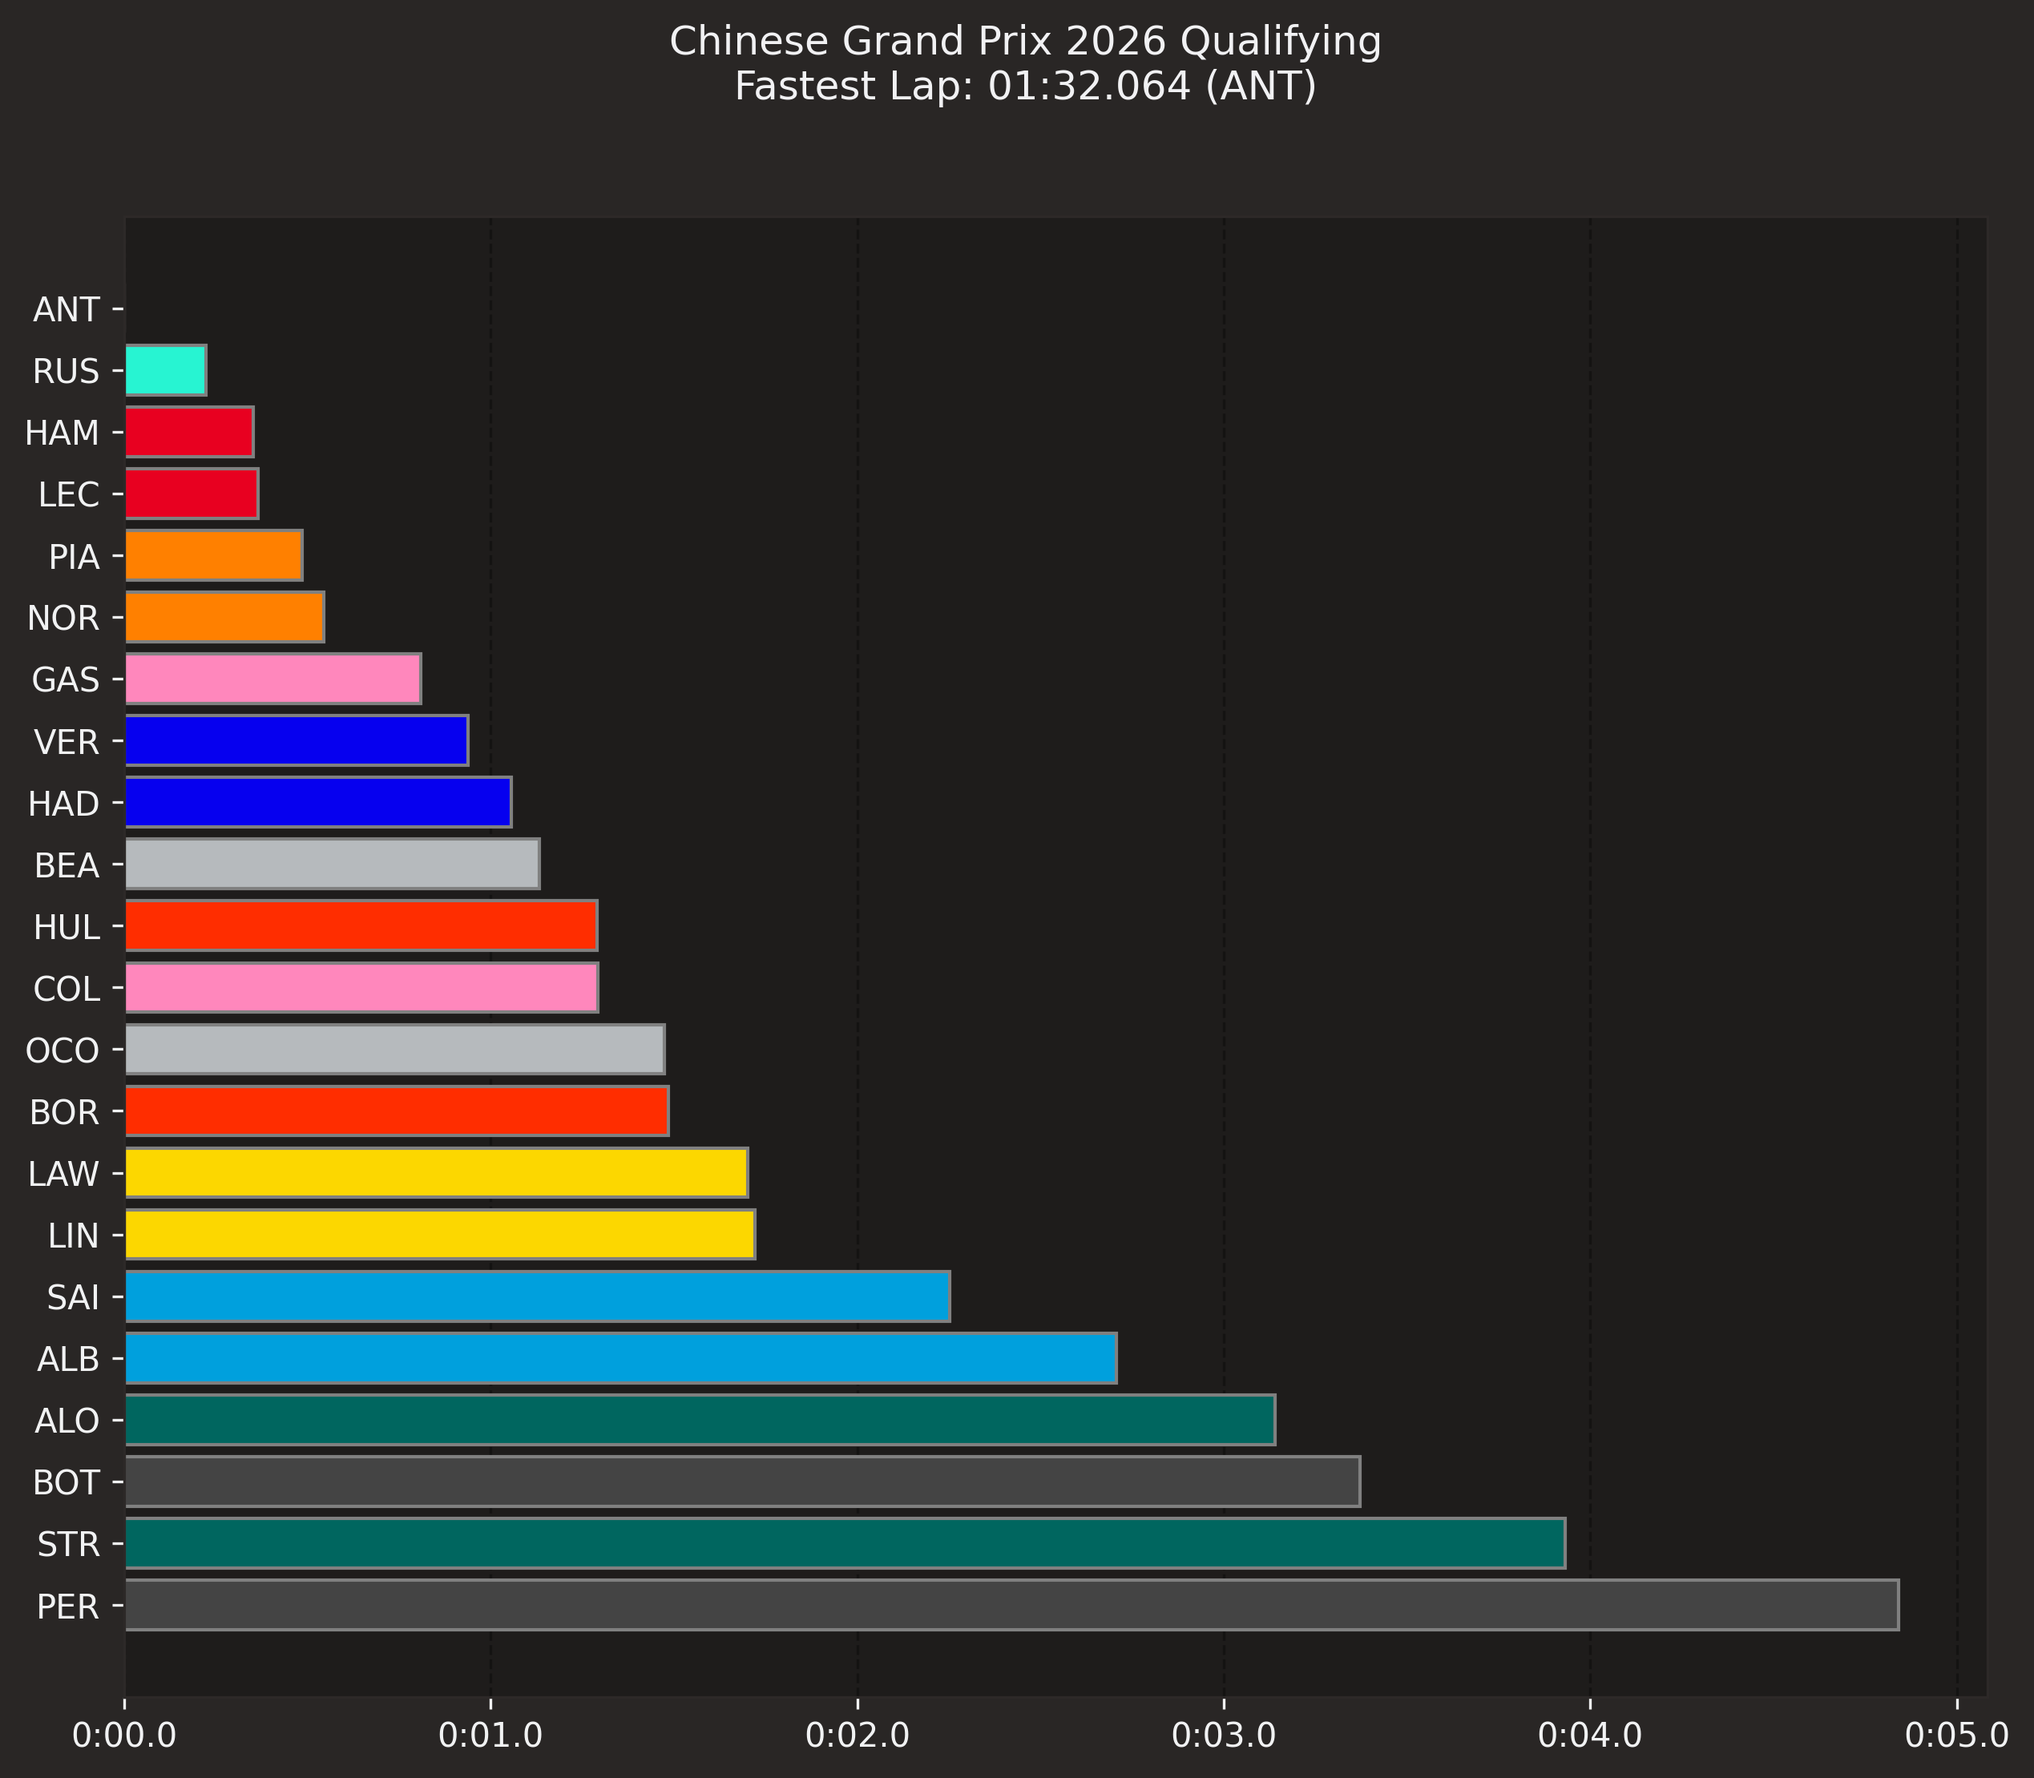
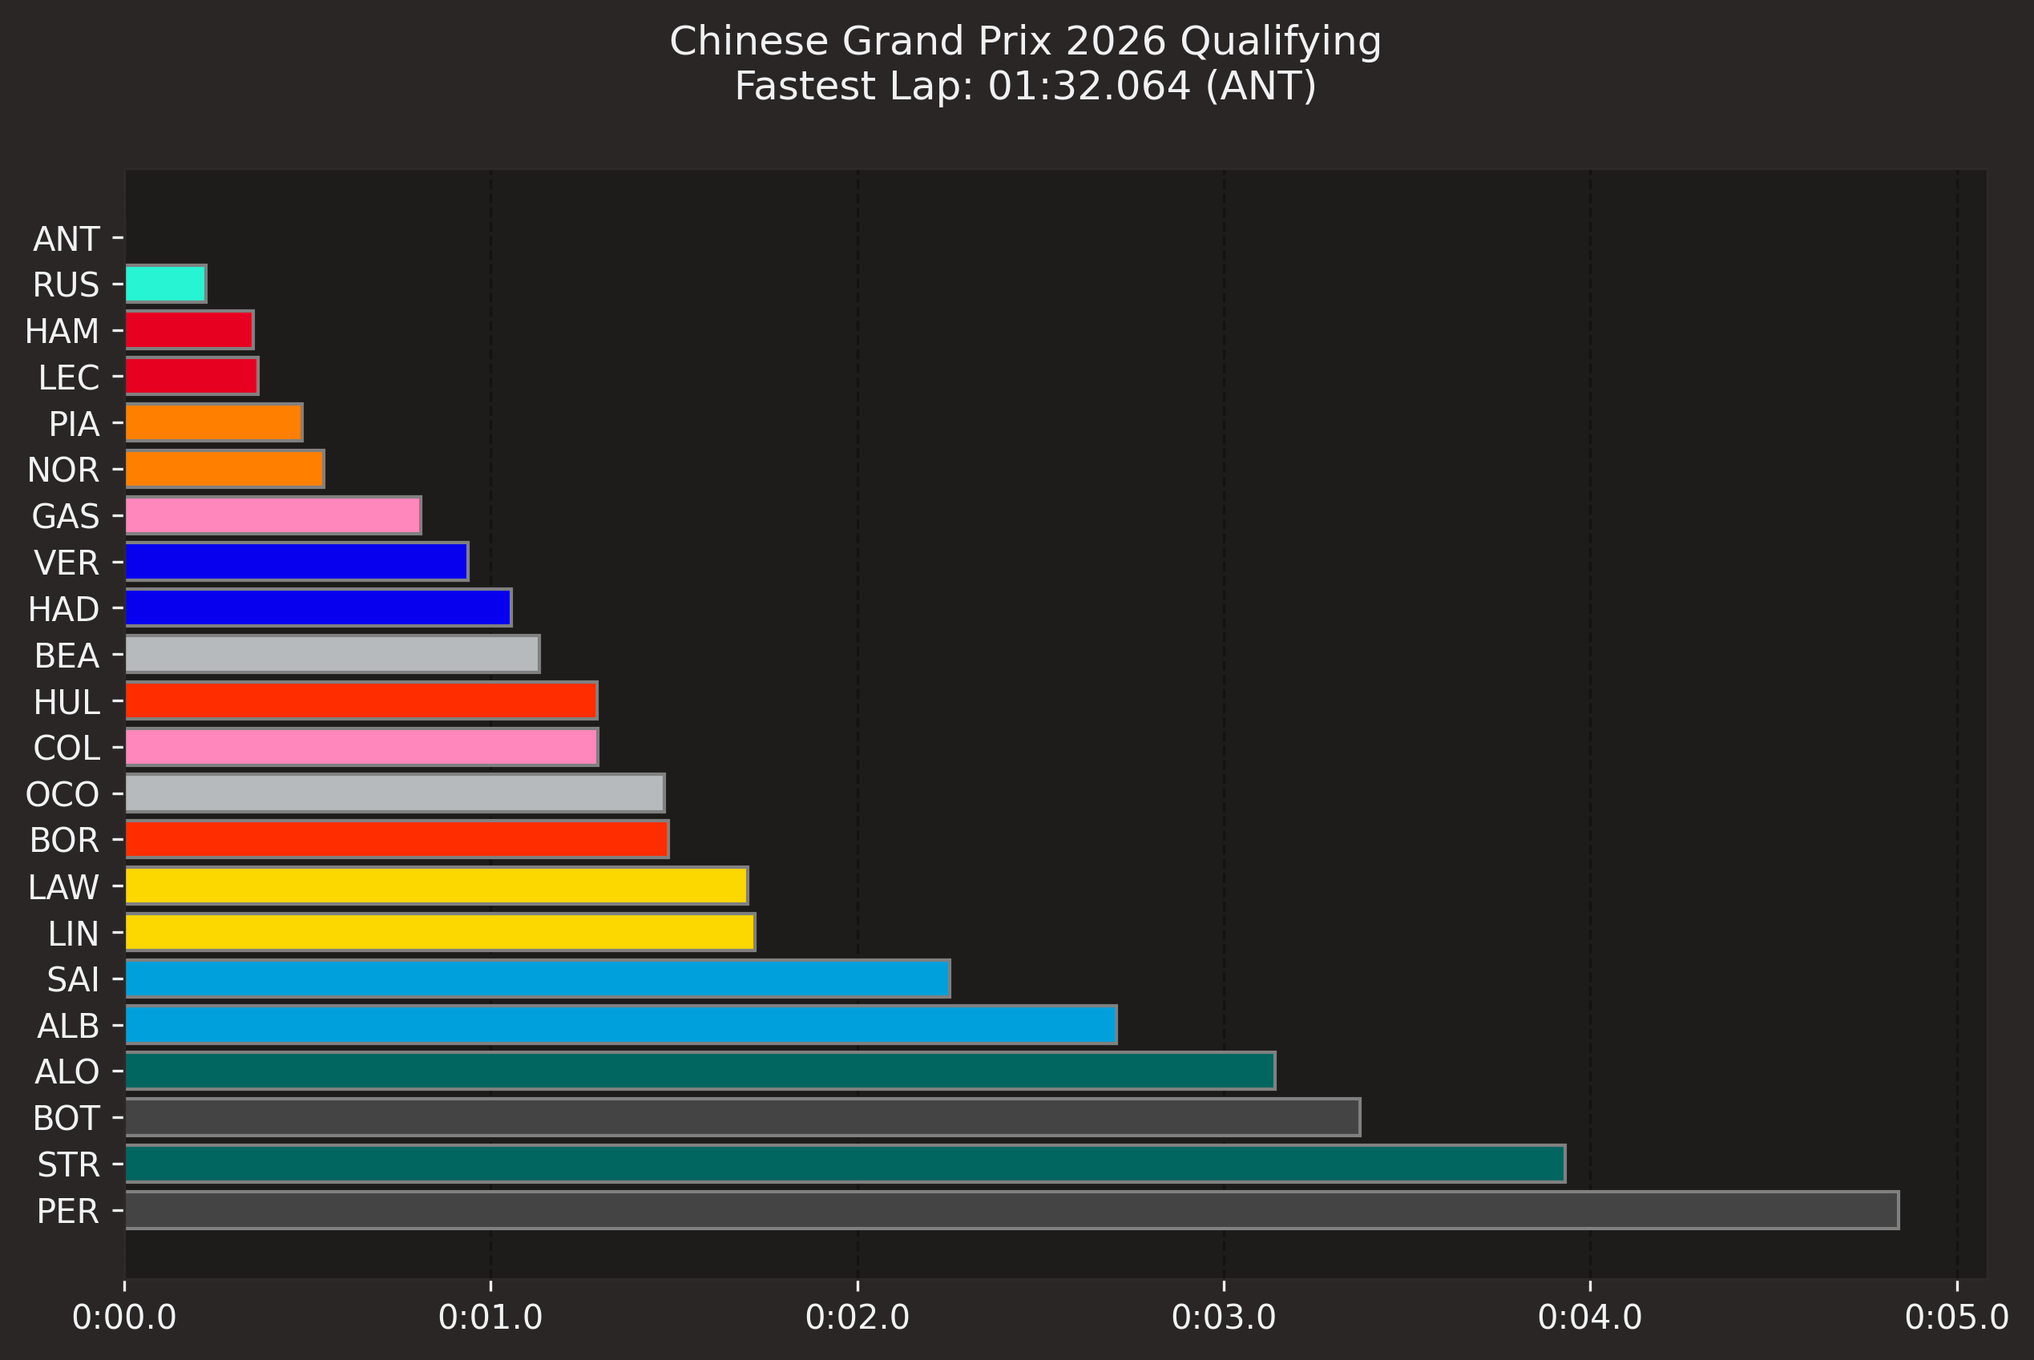
[CHINA] Updated plots

diff --git a/2026/2-china/plots.py b/2026/2-china/plots.py
@@ -19,9 +19,11 @@ year = 2026
 string_race = "2026_china"
 
 ### Load session data
+# Race session
 race_session = fastf1.get_session(year, race_name, 'R')
 race_session.load(telemetry=False, weather=False)
 
+# Qualifying session
 quali_session = fastf1.get_session(year, race_name, 'Q')
 quali_session.load()
 
@@ -43,22 +45,29 @@ gpx_path = os.path.join(path, "gpx")
 ### POSITION CHANGES DURING THE RACE
 ######################################################
 
+# Load FastF1's dark color scheme
 fastf1.plotting.setup_mpl(mpl_timedelta_support=False, color_scheme='fastf1')
 
+# Plot
 fig, ax = plt.subplots(figsize=(10, 6))
 
 for drv in race_session.drivers:
-    # UPDATED: Changed pick_driver to pick_drivers
     drv_laps = race_session.laps.pick_drivers(drv)
+
     if not drv_laps.empty:
         abb = drv_laps['Driver'].iloc[0]
-        style = fastf1.plotting.get_driver_style(identifier=abb,
-                                                 style=['color', 'linestyle'],
-                                                 session=race_session)
-        ax.plot(drv_laps['LapNumber'], drv_laps['Position'], label=abb, **style)
+    else:
+        print("No laps found for this driver")
+    
+    style = fastf1.plotting.get_driver_style(identifier=abb,
+                                             style=['color', 'linestyle'],
+                                             session=race_session)
 
+    ax.plot(drv_laps['LapNumber'], drv_laps['Position'],
+            label=abb, **style)
+    
 ax.set_ylim([20.5, 0.5])
-ax.set_yticks(range(1, 21))
+ax.set_yticks([1, 5, 10, 15, 20])
 ax.set_xlabel('Lap')
 ax.set_ylabel('Position')
 ax.set_title(f"{race_session.event['EventName']} {year} - Position Changes")
@@ -66,43 +75,61 @@ ax.set_title(f"{race_session.event['EventName']} {year} - Position Changes")
 ax.legend(bbox_to_anchor=(1.0, 1.02), loc='upper left')
 plt.tight_layout()
 
+# Save plot
 plot_path = os.path.join(gpx_path, string_race+"_position_changes.png")
 fig.savefig(plot_path, dpi=300, bbox_inches='tight')
+print(f"\nPosition changes plot saved to {plot_path}")
 
 ######################################################
 ### QUALIFYING RESULTS OVERVIEW
 ######################################################
 
+# Enable Matplotlib patches for plotting timedelta values
 fastf1.plotting.setup_mpl(mpl_timedelta_support=True, color_scheme=None)
 
+list_fastest_laps = list()
 list_fastest_laps = []
+
 for drv in drivers:
-    # UPDATED: Changed pick_driver to pick_drivers
+    
     drv_laps = quali_session.laps.pick_drivers(drv).pick_quicklaps()
-    if not drv_laps.empty:
-        list_fastest_laps.append(drv_laps.pick_fastest())
+    drv_fastest = drv_laps.pick_fastest()
+
+    if drv_fastest is not None:
+        list_fastest_laps.append(drv_fastest)
 
 fastest_laps = Laps(list_fastest_laps).sort_values(by='LapTime').reset_index(drop=True)
+
 pole_lap = fastest_laps.pick_fastest()
 fastest_laps['LapTimeDelta'] = fastest_laps['LapTime'] - pole_lap['LapTime']
 
-team_colors = [fastf1.plotting.get_team_color(lap['Team'], session=quali_session) 
-               for _, lap in fastest_laps.iterlaps()]
+team_colors = list()
+for index, quali_laps in fastest_laps.iterlaps():
+    color = fastf1.plotting.get_team_color(quali_laps['Team'], session=quali_session)
+    team_colors.append(color)
 
-fig, ax = plt.subplots(figsize=(10, 8))
-ax.barh(fastest_laps.index, fastest_laps['LapTimeDelta'], color=team_colors, edgecolor='grey')
+fig, ax = plt.subplots(figsize=(10, 6))
+ax.barh(fastest_laps.index, fastest_laps['LapTimeDelta'],
+        color=team_colors, edgecolor='grey')
 ax.set_yticks(fastest_laps.index)
 ax.set_yticklabels(fastest_laps['Driver'])
+
+# show fastest at the top
 ax.invert_yaxis()
+
+# draw vertical lines behind the bars
 ax.set_axisbelow(True)
 ax.xaxis.grid(True, which='major', linestyle='--', color='black', alpha=0.3)
 
 lap_time_string = strftimedelta(pole_lap['LapTime'], '%m:%s.%ms')
+
 plt.suptitle(f"{quali_session.event['EventName']} {quali_session.event.year} Qualifying\n"
              f"Fastest Lap: {lap_time_string} ({pole_lap['Driver']})")
 
+# Save plot
 plot_path = os.path.join(gpx_path, string_race+"_qualifying_results.png")
 fig.savefig(plot_path, dpi=300, bbox_inches='tight')
+print(f"\nQualifying results plot saved to {plot_path}")
 
 ######################################################
 ### CIRCUIT MAP
@@ -139,8 +166,10 @@ ax.set_title(f"{quali_session.event['Location']} Circuit Map")
 ax.axis('off') # Cleaner look for maps
 ax.set_aspect('equal')
 
+# Save plot
 plot_path = os.path.join(gpx_path, string_race+"_circuit_map.png")
 fig.savefig(plot_path, dpi=300, bbox_inches='tight')
+print(f"\nCircuit map plot saved to {plot_path}")
 
 ######################################################
 ### TYRE STRATEGY
@@ -154,7 +183,7 @@ stints = stints.rename(columns={"LapNumber": "StintLength"})
 # Order drivers by finishing position
 drivers = [race_session.get_driver(d)["Abbreviation"] for d in race_session.drivers]
 
-fig, ax = plt.subplots(figsize=(6, 10))
+fig, ax = plt.subplots(figsize=(10, 6))
 
 for driver in drivers:
     driver_stints = stints.loc[stints["Driver"] == driver]
@@ -190,12 +219,18 @@ ax.spines["right"].set_visible(False)
 ax.spines["left"].set_visible(False)
 
 ax.grid(False)
+ax.legend(handles=[
+    plt.Line2D([0], [0], color=fastf1.plotting.get_compound_color("SOFT", session=race_session), lw=4, label="Soft"),
+    plt.Line2D([0], [0], color=fastf1.plotting.get_compound_color("MEDIUM", session=race_session), lw=4, label="Med"),
+    plt.Line2D([0], [0], color=fastf1.plotting.get_compound_color("HARD", session=race_session), lw=4, label="Hard"),
+], bbox_to_anchor=(1.0, 1.02))
 
 plt.tight_layout()
 
 # Save plot
 plot_path = os.path.join(gpx_path, string_race + "_tyre_strategy.png")
 fig.savefig(plot_path, dpi=300, bbox_inches="tight")
+print(f"\nTyre strategy plot saved to {plot_path}")
 
 ##########################################################
 ### TEAM PACE COMPARISON
@@ -212,7 +247,7 @@ team_order = (transformed_laps[["Team", "LapTime (s)"]].groupby("Team")
 
 team_palette = {team: fastf1.plotting.get_team_color(team, session=race_session) for team in team_order}
 
-fig, ax = plt.subplots(figsize=(15, 10))
+fig, ax = plt.subplots(figsize=(10, 6))
 sns.boxplot(
     data=transformed_laps,
     x="Team",
@@ -233,3 +268,4 @@ plt.tight_layout()
 
 plot_path = os.path.join(gpx_path, string_race+"_team_pace_comparison.png")
 fig.savefig(plot_path, dpi=300, bbox_inches='tight')
+print(f"\nTeam pace comparison plot saved to {plot_path}")

diff --git a/2026/2-china/README.md b/2026/2-china/README.md
@@ -10,6 +10,6 @@
 ## Plots
 
 ![china_position_changes](gpx/2026_china_position_changes.png)
+![china_tyre_strategy](gpx/2026_china_tyre_strategy.png)
 ![china_qualifying_results](gpx/2026_china_qualifying_results.png)
 ![china_team_pace_comparison](gpx/2026_china_team_pace_comparison.png)
-![china_tyre_strategy](gpx/2026_china_tyre_strategy.png)
